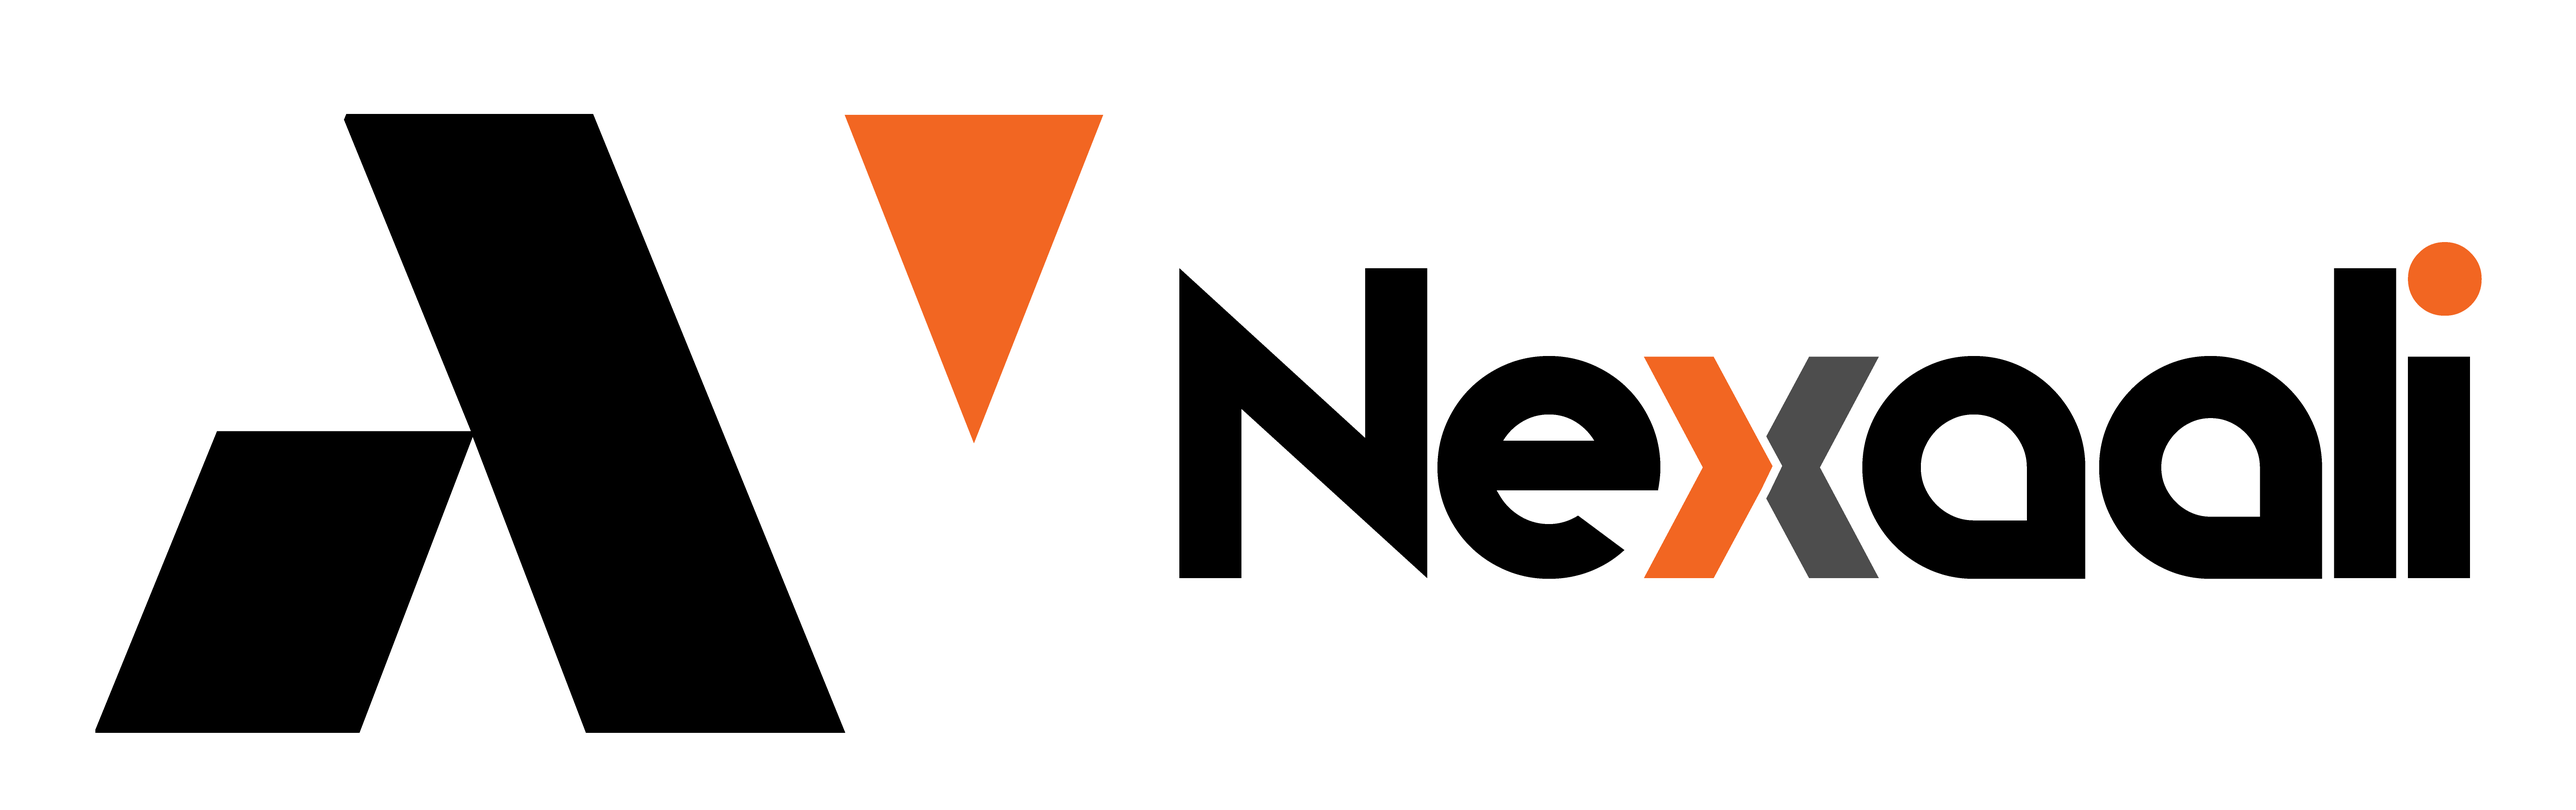
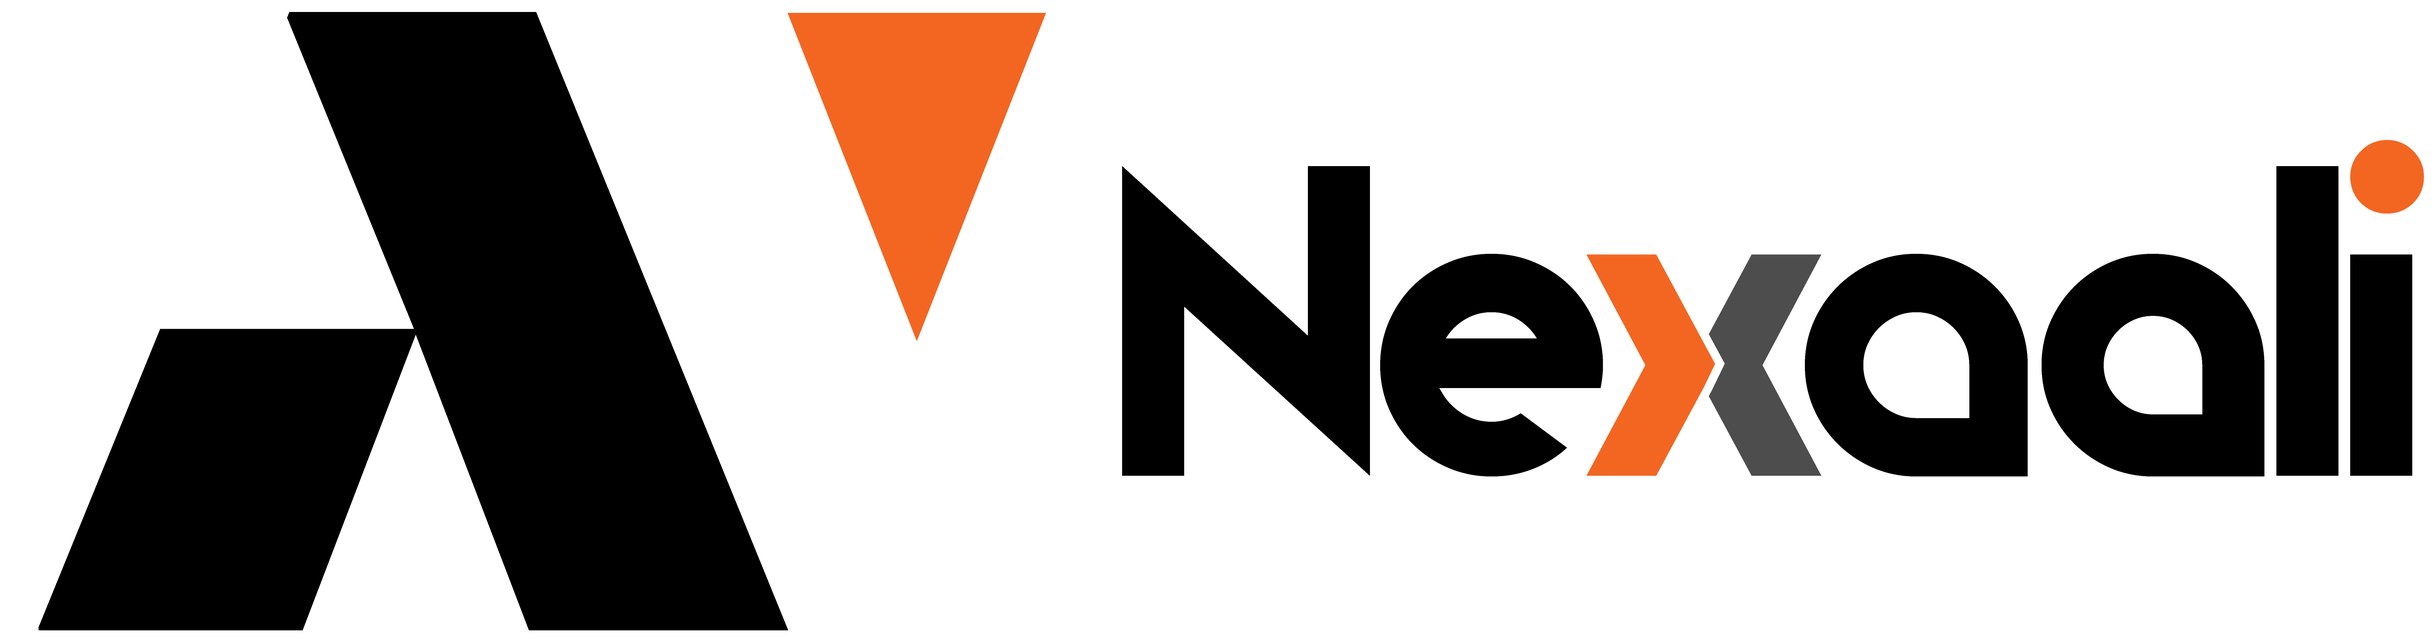
Update auth pages Ui

diff --git a/src/components/module/Auth/RegisterFrom.tsx b/src/components/module/Auth/RegisterFrom.tsx
@@ -7,6 +7,7 @@ import { useActionState, useEffect, useState } from "react";
 import { Field, FieldLabel } from "@/components/ui/field";
 import { register } from "@/services/auth/register";
 import toast from "react-hot-toast";
+import Logo from "@/components/shared/Logo";
 export default function RegisterForm() {
     const [showPassword, setShowPassword] = useState(false);
     const [state, formAction, isPending] = useActionState(register, null);
@@ -28,10 +29,10 @@ export default function RegisterForm() {
 
 
         <form action={formAction} className="w-full max-w-md space-y-5 px-8 max-md:h-full">
-
-            <h2 className="text-3xl font-semibold text-center mb-6">
-                Create Your Account
-            </h2>
+            <div className="flex flex-col items-center ">
+                <Logo width={180} height={56} className="mt-6 mb-5 md:mt-8 md:mb-6" />
+                <h1 className="text-2xl font-bold ">Create Your Account</h1>
+            </div>
 
             <Field>
                 <FieldLabel htmlFor="name" className="sr-only">
@@ -107,7 +108,7 @@ export default function RegisterForm() {
             >
                 {isPending ? "Creating..." : "Create Account"}
             </Btn>
-        </form>
+        </form >
 
 
 

diff --git a/src/components/module/Auth/LoginFrom.tsx b/src/components/module/Auth/LoginFrom.tsx
@@ -7,6 +7,7 @@ import Link from "next/link";
 import Btn from "@/components/shared/Btn";
 import { Input } from "@/components/ui/input";
 import toast from "react-hot-toast";
+import Logo from "@/components/shared/Logo";
 export function LoginForm() {
     const [showPassword, setShowPassword] = useState(false);
     const [state, formAction, isPending] = useActionState(login, null);
@@ -23,8 +24,12 @@ export function LoginForm() {
     return (
         <form action={formAction} className="relative w-full max-w-md space-y-5 px-8 max-md:h-full">
 
-            <h2 className="text-3xl font-semibold text-center mb-6">
-                Sign In
+            <div className="flex flex-col items-center">
+                <Logo width={180} height={56} className="mt-6 mb-5 md:mt-8 md:mb-6" />
+            </div>
+
+            <h2 className="text-2xl font-semibold text-center mb-6">
+                Login to Your Account
             </h2>
 
             <Field>

diff --git a/src/components/module/Auth/AuthPage.tsx b/src/components/module/Auth/AuthPage.tsx
@@ -18,13 +18,7 @@ export default function AuthPage() {
                 {/* ================= DESKTOP ================= */}
                 <div className="relative hidden md:block h-[80vh]">
 
-                    {/* LOGO SMOOTH MOVE */}
-                    <div
-                        className={`absolute -top-20 transition-all duration-700 ease-[cubic-bezier(0.22,1,0.36,1)]
-            ${active ? "left-8" : "right-8"}`}
-                    >
-                        <Logo size={180} />
-                    </div>
+
 
                     {/* SLIDER */}
                     <div

diff --git a/src/components/shared/Logo.tsx b/src/components/shared/Logo.tsx
@@ -22,7 +22,7 @@ export default function Logo({
 
     return (
         <div
-            className={`relative ${className}`}
+            className={`relative p-0 m-0 ${className}`}
             style={{ width: w, height: h }}
         >
             <Image
@@ -30,7 +30,7 @@ export default function Logo({
                 alt="Nexaali Logo"
                 fill
                 priority={priority}
-                className="object-contain h-fit p-0 m-0 "
+                className="object-contain relative p-0 m-0  "
             />
         </div>
     );
